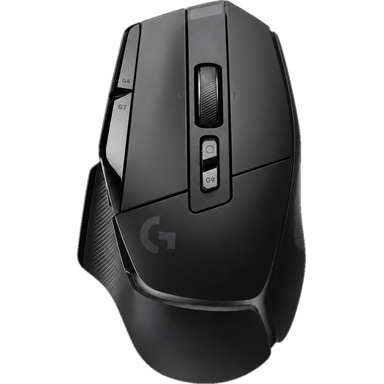
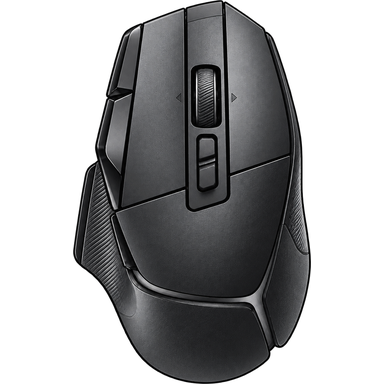
Replace the product photo with a drawing
The picture is now a drawing without logos. It is based on Logitech's
product photography, so it stays outside the Apache license; NOTICE and
the package's NOTICE.txt say so.

Changed region(s): [[0.1875, 0.0, 0.8125, 1.0]]

diff --git a/README.md b/README.md
@@ -10,8 +10,8 @@ downloads it when a matching mouse appears. The behaviour comes from the
 a system package the GUI offers to install through PackageKit the first
 time it's needed.
 
-**License:** Apache-2.0, except the mouse's picture, which is Logitech's
-product photo and not covered by it. See [NOTICE](NOTICE).
+**License:** Apache-2.0, except the mouse's picture, a drawing based on Logitech's
+product photography, which is not covered by it. See [NOTICE](NOTICE).
 
 ## What's in the manifest
 
